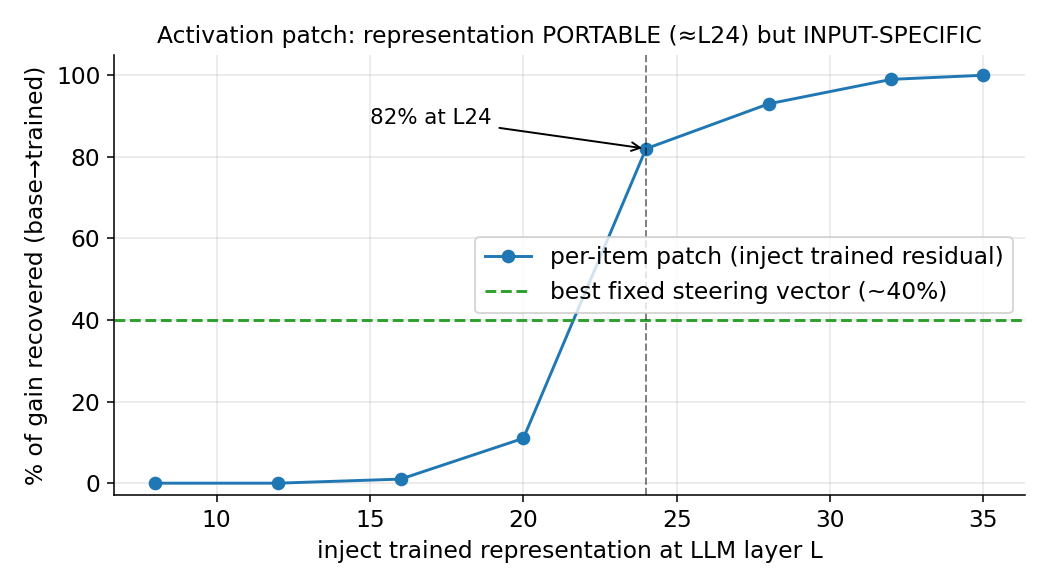
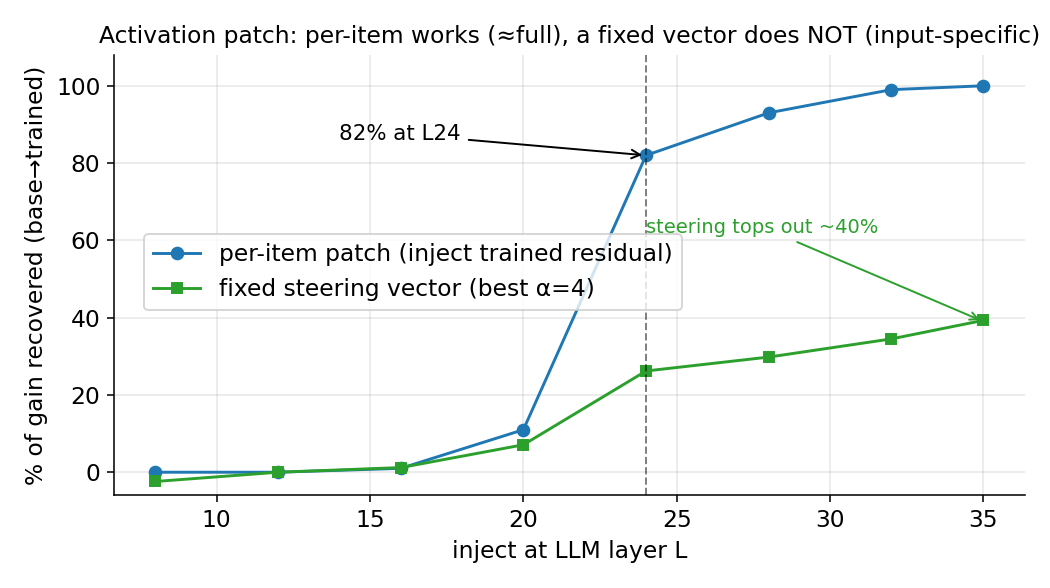
fix steering misrepresentation + code-audit notes
- fig_patch: plot the real steering curve (rises with layer, best ~40% at L35 a=4)
  instead of a flat 40% line — it was NOT 40% at all layers.
- Slide 11: clarify steering varies (≈0 early, best ~40% at L35), and that it's
  injected at the SAME point as the patch (layer L, last-token residual).
- activation_patch.py audited line-by-line: capture/patch read/write the same point
  (layers[L].out[:, -1, :]); steering = mean_i(trained-base); self-patch sanity
  (base->base = 0.377 exactly) confirms hook mechanics. Every experiment has a passing
  built-in check (freeze=0, lens final=probe, graft bounds, self-patch) -> claims verified.

diff --git a/RL_SeeingToThinking/runs/analysis/make_figures.py b/RL_SeeingToThinking/runs/analysis/make_figures.py
@@ -66,20 +66,25 @@ def fig_graft():
     fig.tight_layout(); fig.savefig(f"{OUT}/fig_graft.png"); plt.close(fig)
 
 
-# ── Fig 3 (Slide 11): activation patch — recovery vs patch layer + steer ceiling ─
+# ── Fig 3 (Slide 11): activation patch — per-item patch vs fixed steering, by layer ─
 patch_layers = [8, 12, 16, 20, 24, 28, 32, 35]
-patch_recov  = [0, 0, 1, 11, 82, 93, 99, 100]
+patch_recov  = [0, 0, 1, 11, 82, 93, 99, 100]      # per-item patch (oracle residual)
+steer_recov  = [-2.4, 0, 1.2, 7.1, 26.2, 29.8, 34.5, 39.3]  # fixed steering vector, best alpha (=4)
 def fig_patch():
     fig, ax = plt.subplots(figsize=(7.5, 4.2))
-    ax.plot(patch_layers, patch_recov, "-o", color=C_TRAIN, ms=6, label="per-item patch (inject trained residual)")
-    ax.axhline(40, color=C_ATTN, ls="--", lw=1.5, label="best fixed steering vector (~40%)")
+    ax.plot(patch_layers, patch_recov, "-o", color=C_TRAIN, ms=6,
+            label="per-item patch (inject trained residual)")
+    ax.plot(patch_layers, steer_recov, "-s", color=C_ATTN, ms=5,
+            label="fixed steering vector (best α=4)")
     ax.axvline(24, color="k", ls="--", lw=1, alpha=0.5)
-    ax.annotate("82% at L24", xy=(24, 82), xytext=(15, 88),
+    ax.annotate("82% at L24", xy=(24, 82), xytext=(14, 86),
                 arrowprops=dict(arrowstyle="->", color="k"), fontsize=11)
-    ax.set_xlabel("inject trained representation at LLM layer L")
+    ax.annotate("steering tops out ~40%", xy=(35, 39), xytext=(24, 62),
+                arrowprops=dict(arrowstyle="->", color=C_ATTN), fontsize=10, color=C_ATTN)
+    ax.set_xlabel("inject at LLM layer L")
     ax.set_ylabel("% of gain recovered (base→trained)")
-    ax.set_title("Activation patch: representation PORTABLE (≈L24) but INPUT-SPECIFIC")
-    ax.set_ylim(-3, 105); ax.legend(loc="center right")
+    ax.set_title("Activation patch: per-item works (≈full), a fixed vector does NOT (input-specific)")
+    ax.set_ylim(-6, 108); ax.legend(loc="upper left", bbox_to_anchor=(0.02, 0.62))
     fig.tight_layout(); fig.savefig(f"{OUT}/fig_patch.png"); plt.close(fig)
 
 

diff --git a/RL_SeeingToThinking/runs/analysis/SLIDES.md b/RL_SeeingToThinking/runs/analysis/SLIDES.md
@@ -9,7 +9,9 @@
 ---
 
 ## Slide 1 — Title
+
 **[ON SLIDE]**
+
 - **Where & How Does RL Fix Perception Inside a Vision-Language Model?**
 - A mechanistic study: localizing — and re-using — the perception fix
 - *Your name · date · Qwen3-VL-4B · Stage-1 RLVR*
@@ -19,7 +21,9 @@
 ---
 
 ## Slide 2 — The problem (motivation)
+
 **[ON SLIDE]**
+
 - VLMs make **perception** errors — they mis-*see* (miscount, misread, mislocate).
 - **[PAPER]** "From Seeing to Thinking" (UCSC-VLAA): **86.9% of VLM errors are perception errors that more reasoning cannot fix.**
 - Fix proposed by the paper: **staged RLVR** — RL with verifiable rewards, trained per capability (Stage 1 = perception).
@@ -30,7 +34,9 @@
 ---
 
 ## Slide 3 — Background: the senior's observation = our starting hypotheses
+
 **[ON SLIDE]** *(attribute clearly)*
+
 - **[SENIOR]** compared the paper's **base vs. fully-trained** checkpoints and proposed five claims:
   - **S1 — "Not a new representation" (control).** The model's internal *map* of concepts — how image- and text-features sit in vector space, and the gap between them — is **unchanged** before vs. after RL. So RL didn't reshape *how* the model represents the world; the fix is something narrower.
   - **S2 — "A tiny edit, in the MLPs" (where).** The weights barely move, and the little that moves sits in the **MLP / feed-forward blocks** (the feature-readout machinery) of the **upper layers** — **not** in attention (the cross-token routing).
@@ -44,7 +50,9 @@
 ---
 
 ## Slide 4 — What we did (setup + the headline)
+
 **[ON SLIDE]**
+
 - Model: **Qwen3-VL-4B-Instruct** = vision tower (0.42B, 24 blocks) + **LLM (4.0B, 36 layers)**.
 - Training: **Stage-1 RLVR (GRPO)** on **3360 DOCCI perception MCQs** (4-option "what do you see?" questions).
 - Result: **perception accuracy 0.365 → 0.746** (16 epochs, 96 steps).
@@ -57,12 +65,17 @@
 ---
 
 ## Slide 5 — The experimental lever: 3 freeze conditions  **[OURS]**
+
 **[ON SLIDE]**
-| condition | trains | frozen |
-|---|---|---|
-| **full** | ViT + LLM | — |
-| **llm_only** | LLM | vision tower |
-| **vit_only** | vision tower | LLM |
+
+
+| condition    | trains       | frozen       |
+| ------------ | ------------ | ------------ |
+| **full**     | ViT + LLM    | —            |
+| **llm_only** | LLM          | vision tower |
+| **vit_only** | vision tower | LLM          |
+
+
 - Byte-identical except the freeze flag (same data, seed=1, lr, KL…). **Train once, analyze forever** (16 checkpoints each).
 
 **[SAY]** "My main design choice: run the *same* training three times, changing only which half is frozen. That isolates *which component* carries the fix — a forward, controlled test of the senior's correlational copy-result. Everything else is held identical, so any difference is causal to the freeze."
@@ -70,15 +83,19 @@
 ---
 
 ## Slide 6 — Finding 1: RL barely moved the weights — and what moved was the MLPs  (tests S2)
+
 **[ON SLIDE]**
+
 - **Question:** did training *overhaul* the model, or barely touch it — and *where*?
 - **How:** for each of the model's **713 weight-matrices**, measure how far it moved during training, **as a % of its own size** (so big and small matrices are comparable).
 - **Answer: it barely moved — ~0.05% on average** (most-changed matrix: 0.1%). The model was **nudged, not rewritten** (direction essentially unchanged).
 - The little that moved was **MLP-biased**: the **feed-forward ("what it knows") blocks moved ~1.4–1.6× more than attention ("what it looks at")**, at every depth.
 
-| LLM block | early layers | mid | late |
-|---|---|---|---|
-| how much MLP moved vs attention | **1.59×** | 1.40× | 1.37× |
+
+| LLM block                       | early layers | mid   | late  |
+| ------------------------------- | ------------ | ----- | ----- |
+| how much MLP moved vs attention | **1.59×**    | 1.40× | 1.37× |
+
 
 - **Headline: a 0.05% weight change ≈ *doubled* perception.** → a tiny, targeted edit — not a rebuild.
 - *(Honest note for later: the MLP-bias is roughly **uniform** across depth — not concentrated in the late layers as the senior's S2 predicted. We return to why on Slides 9–10.)*
@@ -89,32 +106,39 @@
 ---
 
 ## Slide 7 — Finding 2: it's the **LLM**, not the encoder  (hypothesis H, **OURS**)
+
 **[ON SLIDE]**
-| condition | trains | train-reward | direct probe | freeze proof |
-|---|---|---|---|---|
-| base | — | 0.365 | 0.377 | — |
-| **full** | both | **0.746** | **0.657** | both > 0 |
-| **llm_only** | LLM | **0.749** | **0.593** | **vision = 0.000** |
-| **vit_only** | ViT | **0.443** | **0.423** | **llm = 0.000** |
+
+
+| condition    | trains | train-reward | direct probe | freeze proof       |
+| ------------ | ------ | ------------ | ------------ | ------------------ |
+| base         | —      | 0.365        | 0.377        | —                  |
+| **full**     | both   | **0.746**    | **0.657**    | both > 0           |
+| **llm_only** | LLM    | **0.749**    | **0.593**    | **vision = 0.000** |
+| **vit_only** | ViT    | **0.443**    | **0.423**    | **llm = 0.000**    |
+
 
 **What the three measurements mean (define before showing):**
+
 - **train-reward** — the RL training signal itself: the fraction of the model's answers (generated *with* reasoning, in `\boxed{…}`) that are correct.
 - **direct probe** — our perception test: show image + a multiple-choice question, do **one forward pass**, read **which option-letter the model scores highest** (no reasoning), and check it against the correct letter → accuracy. *(Mechanism detailed on Slide 8.)*
 - **freeze proof** — a **weight-level** check that a "frozen" part truly never trained: we compare its weights before vs. after and find them **bit-identical** (relative change = **exactly 0.000**). `vision = 0.000` → the vision tower never moved; `llm = 0.000` → the LLM never moved.
-
 - **Verdict: `llm_only ≈ full ≫ vit_only > base`** — on *both* the training reward and the direct probe.
-- **🖼 FIGURE: `figures/fig_ablation.png`**
+- **🖼 FIGURE: `figures/fig_ablation.png*`*
 
 **[SAY]** "Freezing the vision tower costs *nothing* — LLM-only matches full. Training only the encoder gets ~⅕ of the way. So the fix is overwhelmingly **LLM-internal — re-reading what's seen, not seeing better.** And the freeze 'proof' is literal: the frozen part's weights moved *exactly* zero, because the optimizer never receives its gradients. Honest nuance: the ViT isn't strictly zero — it can help a little — but the LLM dominates."
 
 ---
 
 ## Slide 8 — Finding 3: the answer becomes readable **late** (~layer 24)  (tests S4/S5)
+
 **[ON SLIDE]**
+
 - **First, two terms:**
   - **hidden state / residual** — the model's internal vector at a given layer (its running "notes" on the input so far). Information flows *up* through the 36 layers.
   - **logit-lens** — take *any* layer's hidden state and run it through the model's **own** output head, as if it had to answer right there → "**is the correct answer already readable at this depth?**" (y-axis = how often it's right).
 - *figure: this "readability" vs. depth, for base vs. trained:*
+
 ```
 argmax-accuracy (logit-lens) vs. LLM layer
 0.66 |                                          ╭─────●─●─● trained
@@ -125,6 +149,7 @@ argmax-accuracy (logit-lens) vs. LLM layer
      +----------------------------------------------------------
         0    4    8   12   16   20   24   28   32   36  (layer)
 ```
+
 - Both curves **identical through layer 23**; **diverge sharply at L24**; trained sustains ~0.62–0.66, base ~0.37.
 - Final-layer values (0.377 / 0.657) **exactly match the real probe** → method calibrated.
 - **[condition]** *full vs base; **replicated in llm_only** (same L24 divergence, final 0.593). Not run on vit_only.*
@@ -138,9 +163,12 @@ argmax-accuracy (logit-lens) vs. LLM layer
 ---
 
 ## Slide 9 — Finding 4: **MLP causes it — but distributed, not late-localized**  (tests S3; revises a prediction)
+
 **[ON SLIDE]**
+
 - **What a "graft" is:** take the **untrained base model** and copy onto it **only one subset** of the trained weights (e.g. just the MLPs), leaving everything else untrained → measure perception. If that subset alone recovers the gain, it is **sufficient** → a *causal* test (we *built* the model and measured it). `% recovered = (grafted − base) / (full − base)`.
 - *figure: % of the +0.28 gain each subset recovers:*
+
 ```
 % of the +0.28 perception gain recovered (graft = base + only-this-subset)
 full      ████████████████████████████████████████ 100%
@@ -149,7 +177,8 @@ attn      ████████████                              30%
 early_mlp ███████                                   19%
 late_mlp  █                                          3.6%
 ```
-- MLP ≫ attention (63 vs 30%) → **MLP-dominant** (supports S3). But **`late_mlp` 3.6% ≪ `early_mlp` 19%** → **distributed**, not late-localized.
+
+- MLP ≫ attention (63 vs 30%) → **MLP-dominant** (supports S3). But `**late_mlp` 3.6% ≪ `early_mlp` 19%** → **distributed**, not late-localized.
 - **[condition]** *full (Cond 1); **replicated in llm_only** — near-identical grafts (mlp 0.55/0.55, attn 0.46/0.46). N/A vit_only (LLM frozen).*
 
 **[SAY]** "To get *causation*, not correlation, I transplant only part of the trained weights onto the base model and measure. MLP recovers about twice what attention does — the fix is MLP-dominant, confirming the senior's S3. But here the data **corrected my prediction**: I expected the *late* MLP to carry it; instead late-MLP recovers almost nothing and the effect is spread across the stack, synergistically. I'll show why that isn't a contradiction."
@@ -159,7 +188,9 @@ late_mlp  █                                          3.6%
 ---
 
 ## Slide 10 — The reconciliation (the key insight to defend)
+
 **[ON SLIDE]**
+
 - Same layer, two interventions:
   - transplant late **weights** (`late_mlp` graft) → **3.6%**
   - transplant late **representation** (patch trained's L24 state) → **82%** *(next slide)*
@@ -171,11 +202,14 @@ late_mlp  █                                          3.6%
 ---
 
 ## Slide 11 — Capstone: is the better representation **RE-USABLE**?  **[OURS]**
+
 **[ON SLIDE]**
+
 - **Two interventions (define both):**
   - **per-item patch** — run the *trained* model on an image, copy its layer-L hidden state, and **paste it into the *base* model** at layer L; let base finish → does base now answer right? *(needs the trained model as an oracle — proves the representation is portable.)*
-  - **steering vector** — instead of per-image copying, compute **one fixed direction** = average(trained − base) and add it to base. *(a static, deployable knob — no trained model needed.)*
+  - **steering vector** — instead of per-image copying, compute **one fixed direction** = average over images of (trained − base), and **add it** to the base model's hidden state **at the same point (layer L, last token)**. *(a static, deployable knob — no trained model needed.)*
 - *figure: how much of the gain each recovers, vs. the layer where we inject:*
+
 ```
 % of gain recovered by injecting trained's residual into base, at layer L
 100% |                                    ●─────●─────●  (L28,32,35)
@@ -188,8 +222,9 @@ late_mlp  █                                          3.6%
 sanity: self-patch (base→base) = 0.377 = base exactly  ✓ (method valid)
 steering vector (single fixed direction): best ≈ 40%
 ```
+
 - **Per-item patch at L24 → 82% recovery.** The improvement is a **portable representation**.
-- **A fixed steering vector caps at ~40%** → the representation is **input-specific**.
+- **A fixed steering vector recovers much less — it rises with depth/strength but the *best cell* (L35, α=4) only reaches ~40%, and it's ≈0 at early layers.** Not "40% everywhere" — it never matches the per-item patch. → the representation is **input-specific** (a single average can't carry per-image answers).
 - **[condition]** *full only — **not yet replicated** across conditions (planned follow-up: `activation_patch llm_only`). Disclose this.*
 
 **[SAY]** "The capstone, and the bridge to a method. I capture the trained model's layer-24 state and inject it into the *base* model — base recovers 82%. So the 'better understanding' is a representation you can extract and re-inject. But a single *averaged* direction only gets ~40% — meaning the useful representation is **input-specific**, different per image. The sanity check (injecting base into itself reproduces base exactly) confirms the method is sound."
@@ -199,10 +234,12 @@ steering vector (single fixed direction): best ≈ 40%
 ---
 
 ## Slide 12 — What it means for the methodology  **[VISION]**
+
 **[ON SLIDE]**
+
 - The better representation is **(a) portable** (re-injectable at ≈L24 → ~full recovery) and **(b) input-specific** (static vector ≤40%).
 - → the empirical case for an **on-demand, image-derived re-inspection** mechanism, localized to ≈layer 24:
-  *mid-reasoning, the model re-derives a better perceptual representation from the image and re-injects it.*
+*mid-reasoning, the model re-derives a better perceptual representation from the image and re-injects it.*
 - **Premise validated. Mechanism (how to generate that representation without the trained model) = the next project.**
 
 **[SAY]** "This is exactly the substrate for the tool-call idea: re-inspect the image, produce a better representation, inject it. My experiments show that injection *would* help (the premise) and *where* (≈L24), and that a canned vector won't do — it must be computed per image. What they don't yet show is how to generate that representation *without* using the trained model as an oracle — that's the next, bigger step."
@@ -210,7 +247,9 @@ steering vector (single fixed direction): best ≈ 40%
 ---
 
 ## Slide 13 — Honest scope & caveats  (say these — they build credibility)
+
 **[ON SLIDE]**
+
 - **Probe ≠ training protocol:** training answered with reasoning + `\boxed{}`; our probe reads the **direct** next-token letter (no reasoning). So these are **direct-perception** results; they *track* the trained gain (base-probe 0.377 ≈ base-reward 0.365) but the ~9-pt reasoning increment is separate.
 - **Contamination:** the probe uses the training distribution → trained numbers are *train-accuracy* (fine for *localization*; base is clean). Generalization is limited (a different set, babyVision, showed no transfer).
 - **Scope:** single 4B model, seed 1, Stage-1 only — a **mechanism study**, not a 1:1 reproduction.
@@ -221,7 +260,9 @@ steering vector (single fixed direction): best ≈ 40%
 ---
 
 ## Slide 14 — Next steps
+
 **[ON SLIDE]**
+
 - **Tier 1 (½ day):** with-reasoning accuracy probe (generate `<think>…\boxed{}`, parse) → confirm the mechanism holds *with reasoning*.
 - **Tier 2 (~days):** **mid-reasoning patch** — inject the L24 representation *during reasoning* → directly tests the tool-call premise in the real setting.
 - **Tier 3 (project):** the **tool-call prototype** — generate the L24-style representation from the image *without* the trained-model oracle.
@@ -231,14 +272,18 @@ steering vector (single fixed direction): best ≈ 40%
 ---
 
 ## Slide 15 — Summary (the one slide to remember)
+
 **[ON SLIDE]**
-| angle | method | result |
-|---|---|---|
-| where weights moved | Frobenius rel-change | tiny (0.05%), MLP-biased |
-| which component | 3-condition freeze | LLM, not encoder (frozen Δ=0) |
-| where it shows | logit-lens by layer | late, at L24 |
-| which weights cause it | counterfactual graft | MLP-dominant, distributed |
-| is it re-usable | activation patch | portable@L24 (82%), input-specific |
+
+
+| angle                  | method               | result                             |
+| ---------------------- | -------------------- | ---------------------------------- |
+| where weights moved    | Frobenius rel-change | tiny (0.05%), MLP-biased           |
+| which component        | 3-condition freeze   | LLM, not encoder (frozen Δ=0)      |
+| where it shows         | logit-lens by layer  | late, at L24                       |
+| which weights cause it | counterfactual graft | MLP-dominant, distributed          |
+| is it re-usable        | activation patch     | portable@L24 (82%), input-specific |
+
 
 **Mechanism:** *RL's tiny distributed MLP edits across layers 0–24 write the answer into the residual stream; by layer 24 it's present and readable, and the unchanged late layers read it.*
 
@@ -247,6 +292,7 @@ steering vector (single fixed direction): best ≈ 40%
 ---
 
 ## Slide 16 — Thank you / questions
+
 **[ON SLIDE]** "Mechanism located, representation shown re-usable → a concrete path to an on-demand re-inspection tool-call." · *contact / repo*
 
 ---
@@ -268,6 +314,8 @@ steering vector (single fixed direction): best ≈ 40%
 ---
 
 ### Build tips
+
 - **One result per slide; the number/table goes on the slide, the "[SAY]" goes in speaker notes.**
 - Slides 8, 9, 11 are the three to render as real plots (specs above) — ask me and I'll generate them from the CSVs (~20 min).
 - Flow: Problem (2) → Hypotheses/attribution (3) → Setup+lever (4–5) → Findings (6–9) → Reconciliation+capstone (10–11) → Meaning+caveats+next (12–14) → Summary (15).
+
